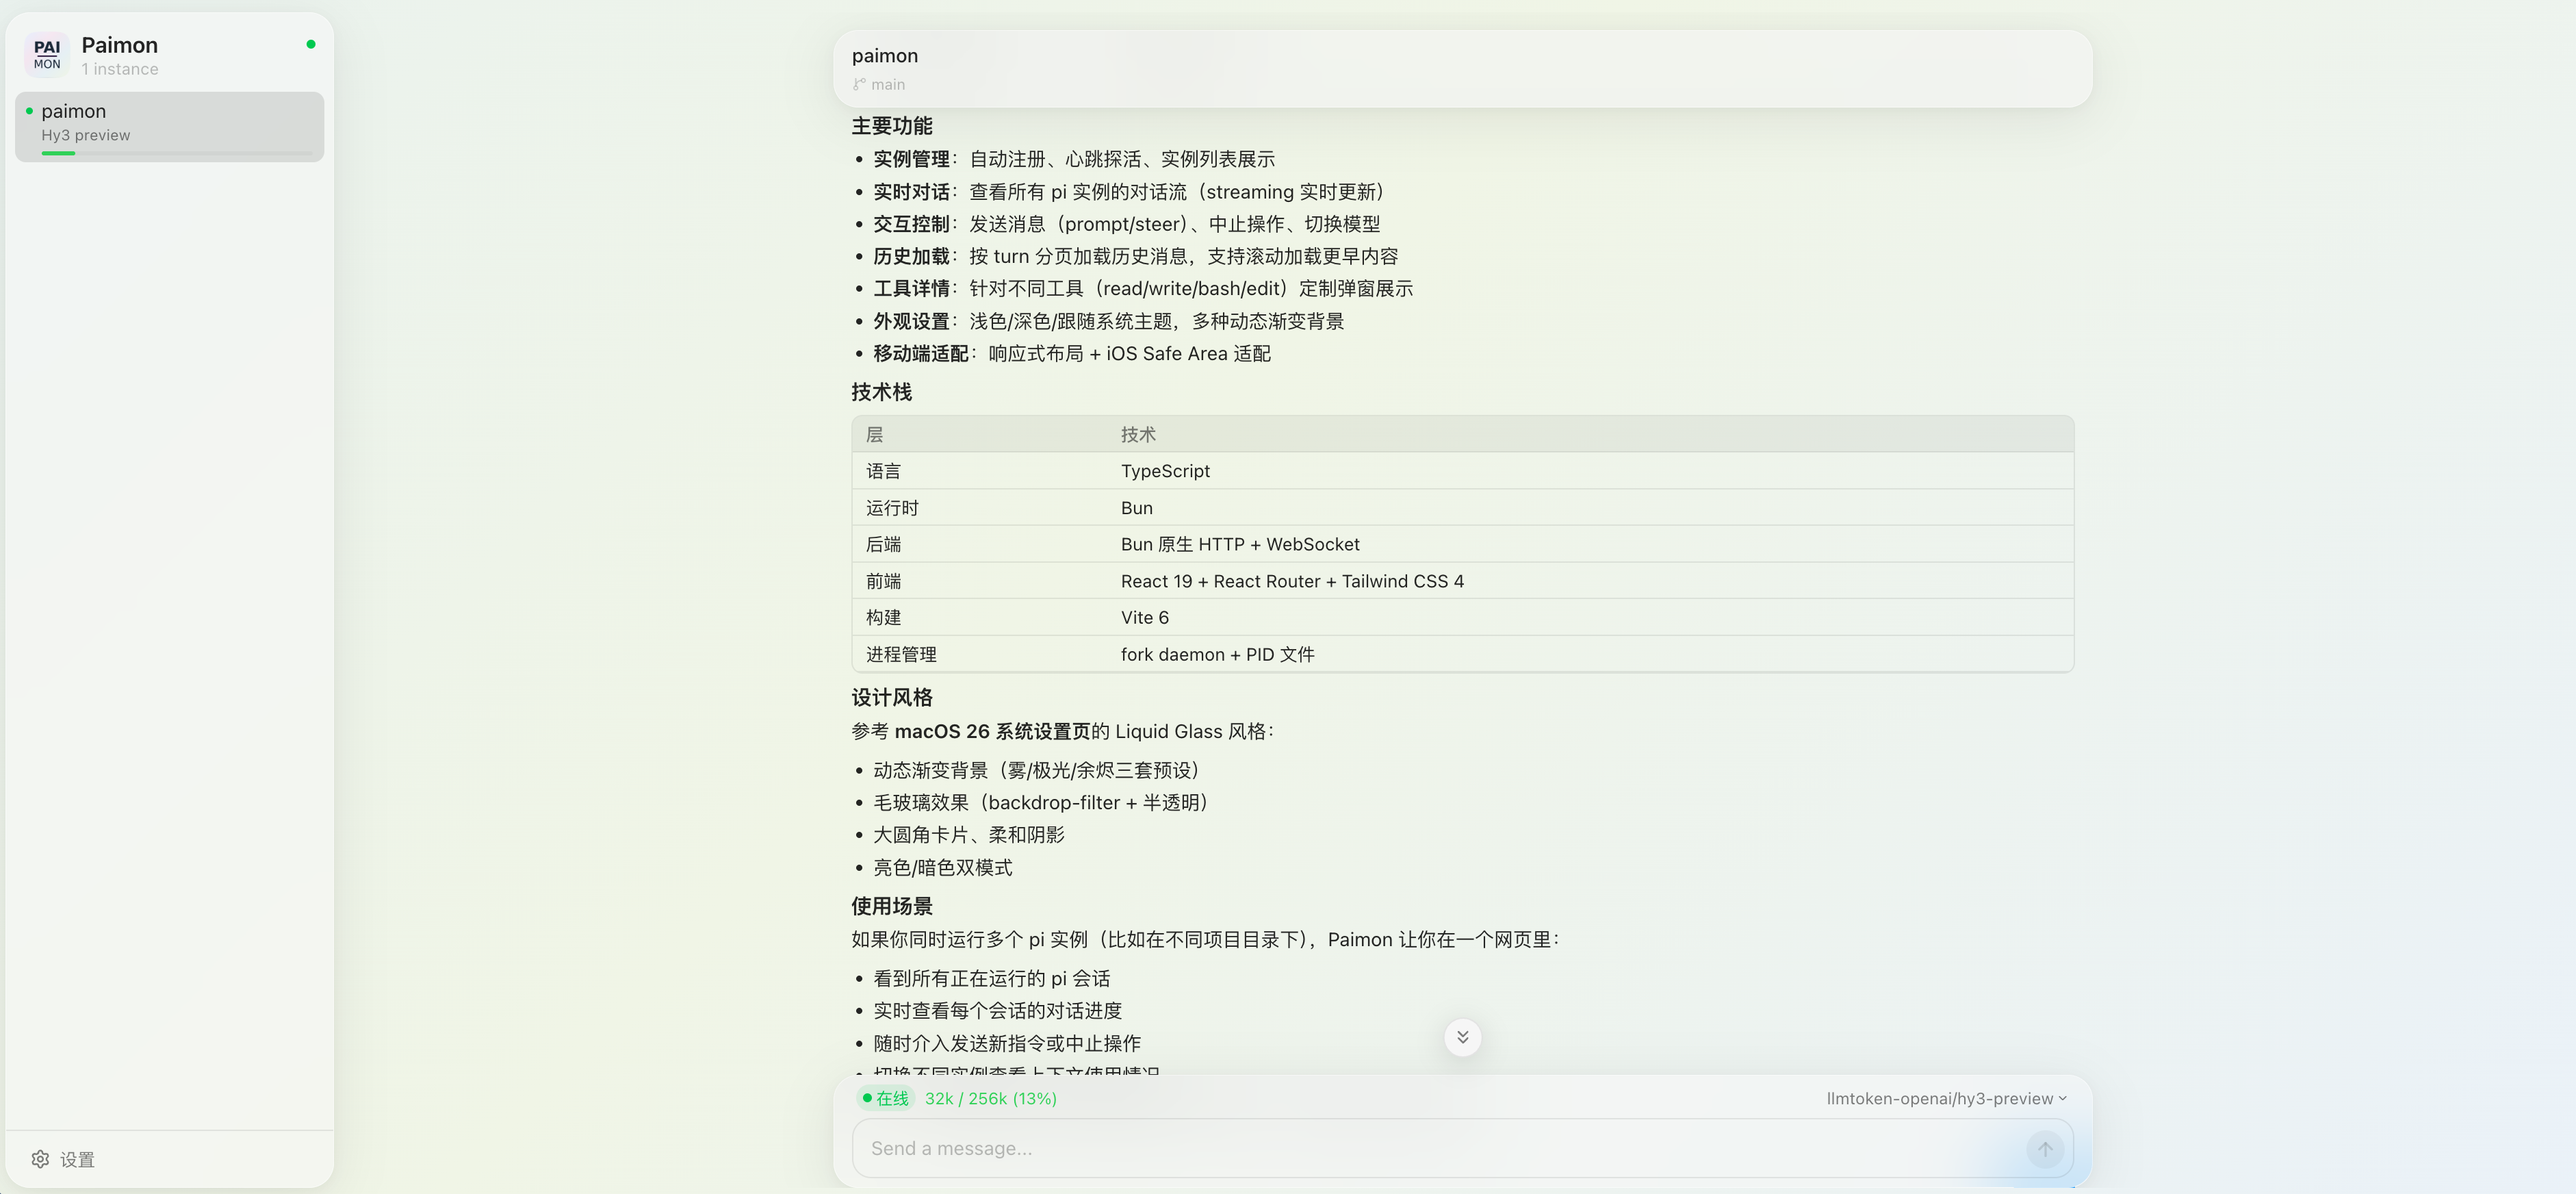
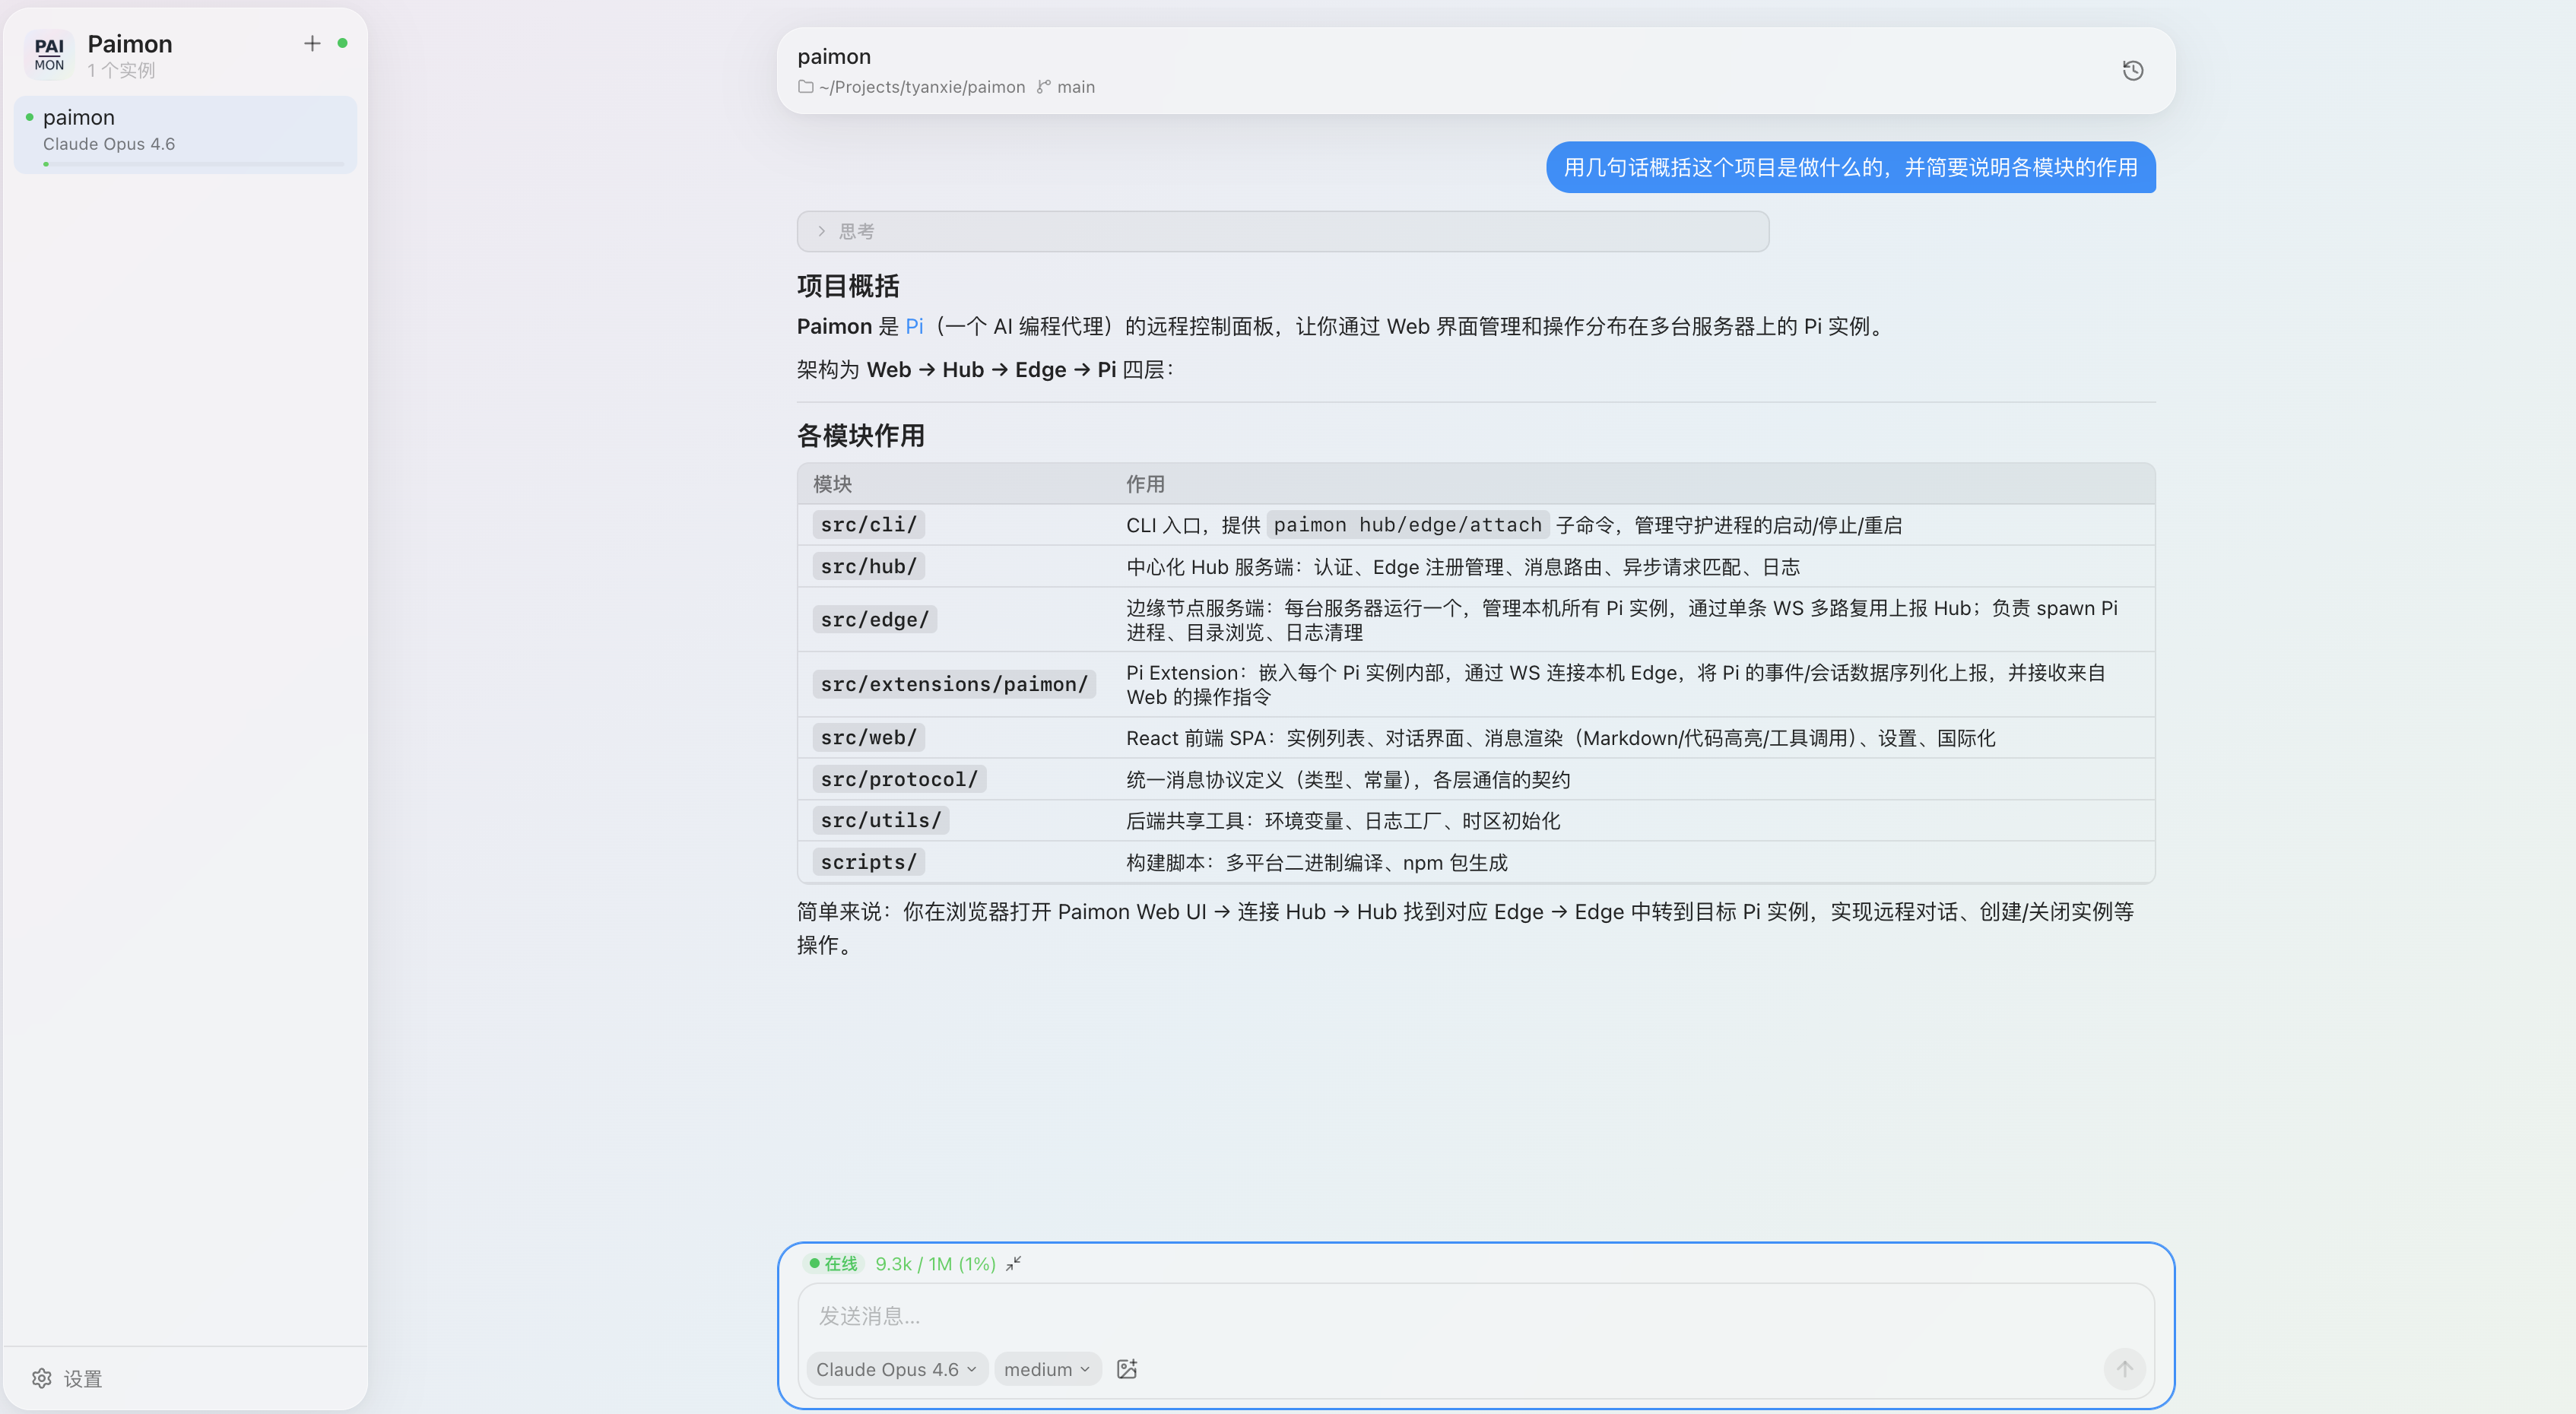
docs(readme): 更新截图并区分中英文版本

diff --git a/README.en.md b/README.en.md
@@ -10,7 +10,7 @@ Paimon lets you talk to all your [Pi](https://pi.dev/) instances from the browse
 
 ## 📸 Screenshots
 
-![Main Interface](docs/screenshots/main.png)
+![Main Interface](docs/screenshots/main_en.png)
 
 ## ✨ Features
 